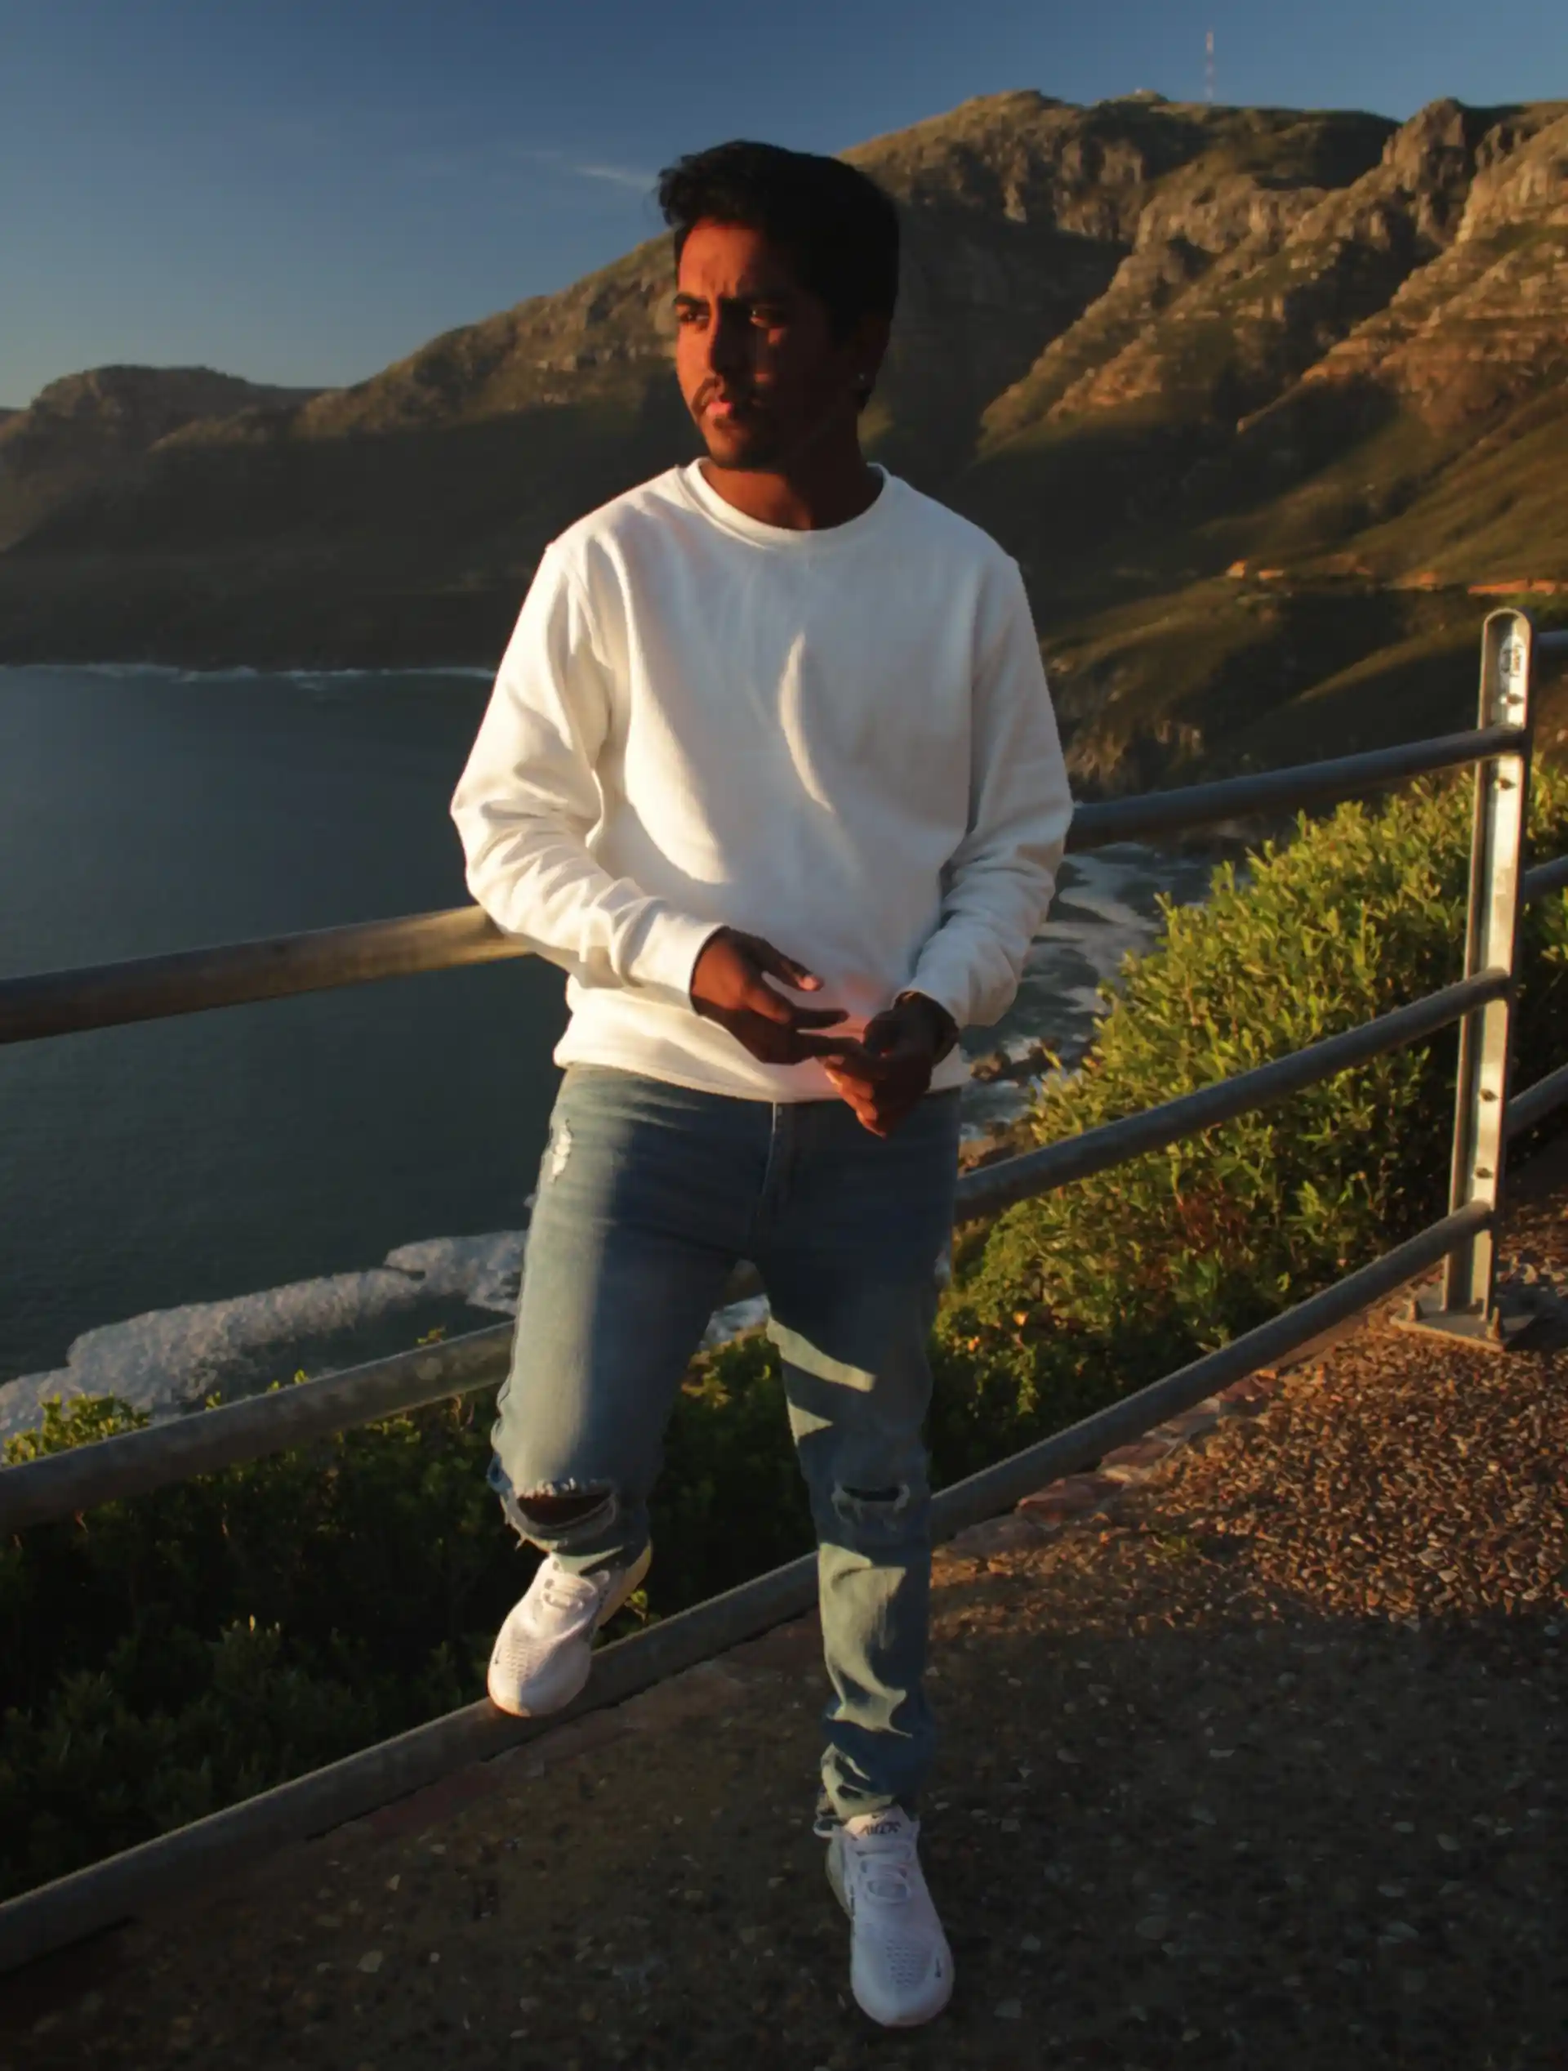
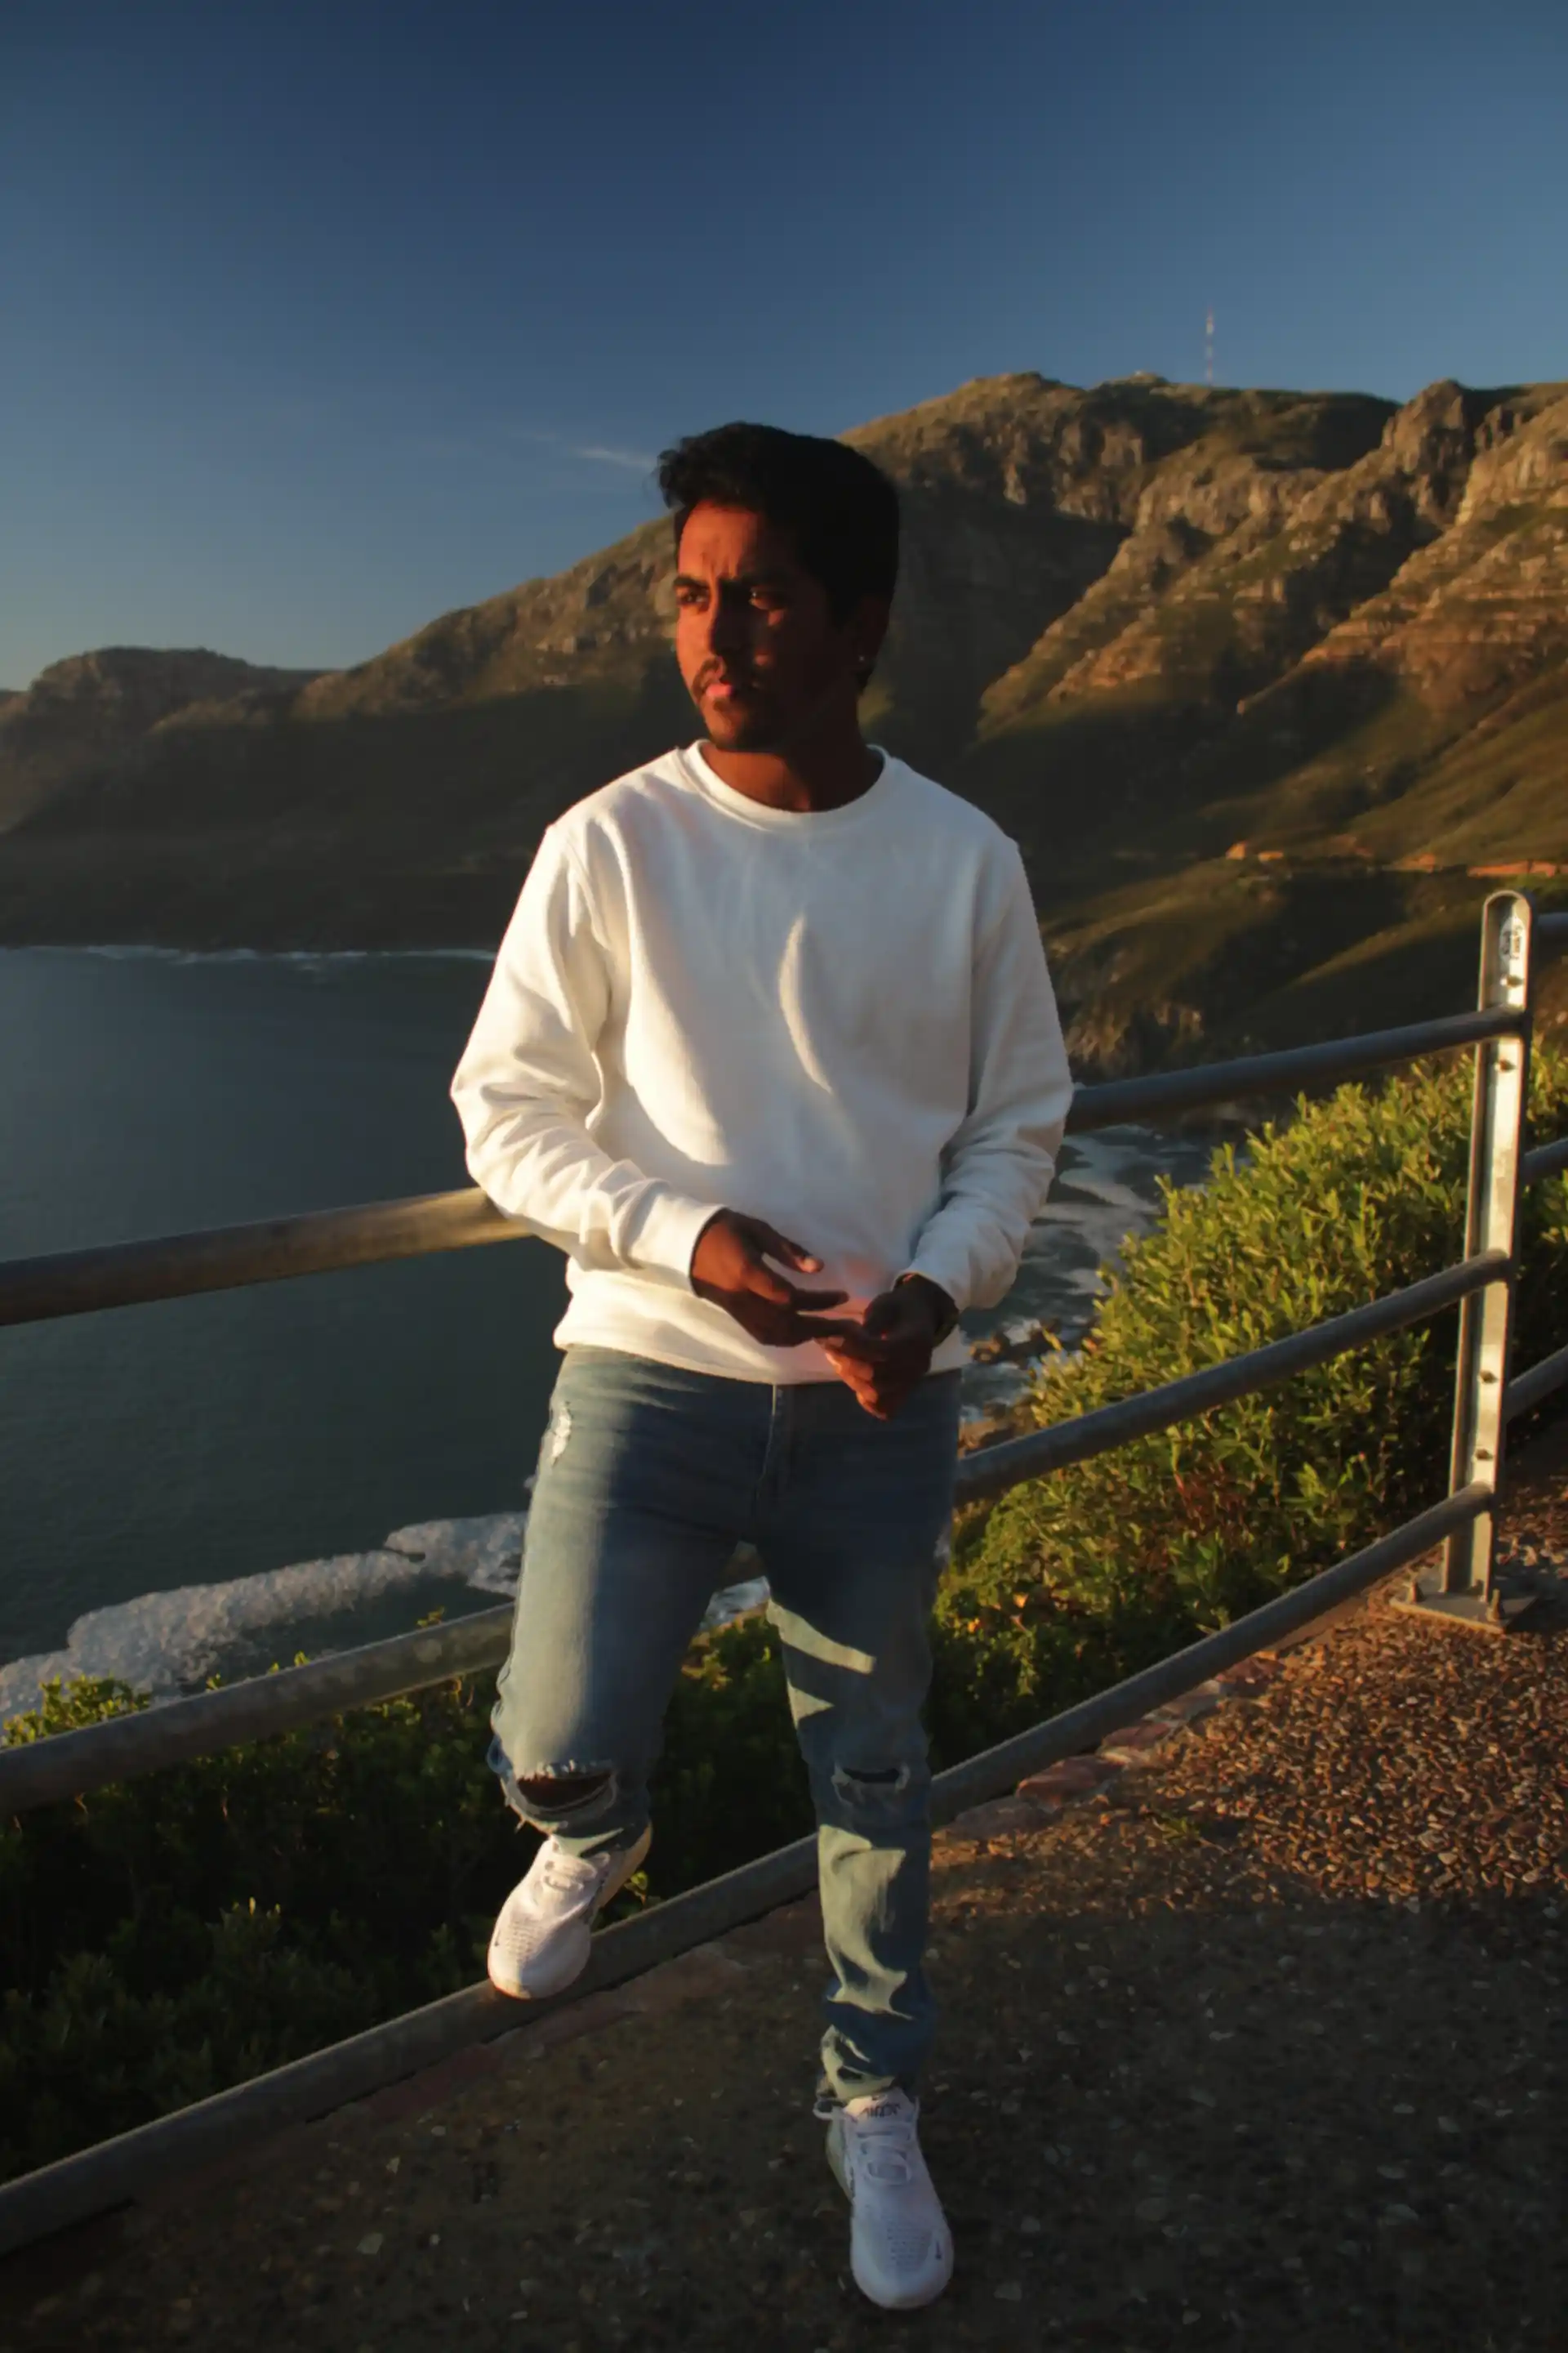
complete hero

diff --git a/app/_sections/Hero.tsx b/app/_sections/Hero.tsx
@@ -1,33 +1,60 @@
-import React from "react";
+"use client";
+
+import React, { useState } from "react";
+
+import Link from "next/link";
+
+import { Button } from "@/components/ui/button";
+
+import HeroImg from "../_components/HeroImg";
 
 function Hero() {
   return (
     <section
       id="home"
-      className="flex flex-col justify-center items-center h-[75vh]"
+      className="grid min-h-[75vh] grid-cols-1 gap-8 lg:grid-cols-3 lg:items-center"
     >
-      <h1 className="font-bold text-4xl text-center lg:text-5xl">
-        Hey There! I&apos;m Nikesh Cohen, <br /> a Full Stack Developer
-      </h1>
+      <div className="lg:col-span-2">
+        <h1 className="inline-block text-4xl font-bold lg:text-5xl">
+          Hey There! I&apos;m Nikesh Cohen, <br /> a Full Stack Developer
+        </h1>
 
-      <div className="w-3/4">
-        <p className="my-3">
-          Building the next wave of web apps that aren’t just nice to look at
-          but built to drive real innovation in whatever field they touch.
-        </p>
+        <div className="mt-6">
+          <p className="mb-3">
+            Building the next wave of web apps that aren&apos;t just nice to
+            look at but built to drive real innovation in whatever field they
+            touch.
+          </p>
 
-        <p className="mb-3">
-          I’ve worked on everything from automated testing platforms to
-          multi-tenant applications and AI powered learning platforms. My
-          favorite projects are the ones that start as big, messy ideas and turn
-          into something that actually makes a difference for people.
-        </p>
+          <p className="mb-3">
+            I&apos;ve worked on everything from automated testing platforms to
+            multi-tenant applications and AI powered learning platforms. My
+            favorite projects are the ones that start as big, messy ideas and
+            turn into something that actually makes a difference for people.
+          </p>
 
-        <p>
-          If you’re into building cool stuff, breaking the mold or looking to
-          partner with someone on your next app idea, let’s connect!
-        </p>
+          <p>
+            If you&apos;re into building cool stuff, breaking the mold or
+            looking to partner with someone on your next app idea, let&apos;s
+            connect!
+          </p>
+        </div>
+
+        <div className="mt-6 flex flex-col gap-3 md:flex-row">
+          <Link href="https://www.linkedin.com/in/nikesh-cohen">
+            <Button className="w-full md:w-auto">View LinkedIn</Button>
+          </Link>
+          <Link href="https://github.com/NikeshCohen">
+            <Button
+              className="w-full border-primary bg-transparent text-primary md:w-auto"
+              variant="outline"
+            >
+              View Github
+            </Button>
+          </Link>
+        </div>
       </div>
+      <HeroImg />
     </section>
   );
 }

diff --git a/app/_components/HeroImg.tsx b/app/_components/HeroImg.tsx
@@ -1,0 +1,33 @@
+import React, { useState } from "react";
+
+import Image from "next/image";
+
+function HeroImg() {
+  const [isImageLoading, setIsImageLoading] = useState(true);
+
+  return (
+    <div>
+      <div className="relative mx-auto aspect-[3/4] w-full max-w-2xl">
+        <div
+          className={`relative h-full w-full rounded-md ${
+            isImageLoading ? "bg-foreground/10" : ""
+          }`}
+        >
+          <Image
+            src="/hero-img.jpg"
+            alt="nikesh cohen"
+            layout="fill"
+            objectFit="cover"
+            quality={100}
+            className={`rounded-md ring-1 ring-border duration-700 ease-in-out ${
+              isImageLoading ? "blur-xl" : "blur-0"
+            }`}
+            onLoad={() => setIsImageLoading(false)}
+          />
+        </div>
+      </div>
+    </div>
+  );
+}
+
+export default HeroImg;

diff --git a/components/global/Header.tsx b/components/global/Header.tsx
@@ -101,7 +101,7 @@ export default function Header() {
   return (
     <motion.header
       ref={headerRef}
-      className="fixed inset-0 top-5 z-50 mx-auto w-full"
+      className="fixed left-0 right-0 top-5 z-50 mx-auto w-full"
       initial={{ maxWidth: "85%", padding: "16px" }}
       style={{ maxWidth: headerMaxWidth, padding: headerPadding }}
     >
